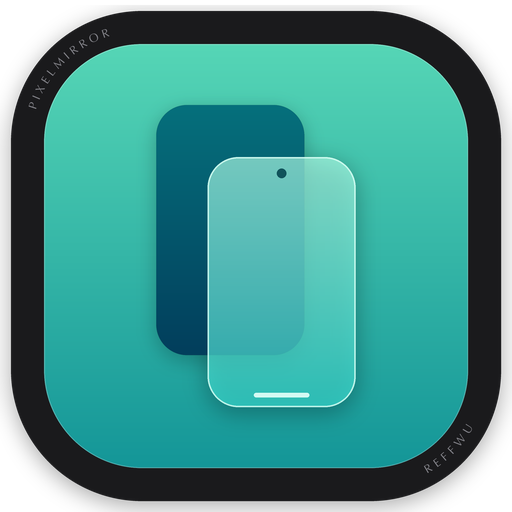
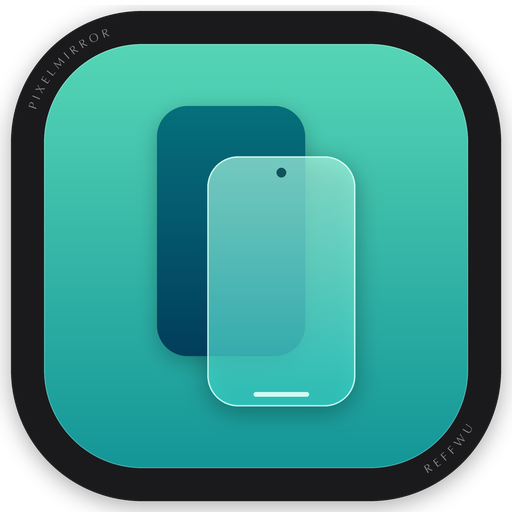
Offset the two phones equally and centre them, as in iPhone Mirroring

diff --git a/scripts/make-icon.py b/scripts/make-icon.py
@@ -80,8 +80,9 @@ def vertical_gradient(top, bottom, start, end):
 def face():
     """Two phones, one behind the other: the real one and its frosted-glass twin on the Mac."""
     canvas = vertical_gradient(BACKGROUND[0], BACKGROUND[1], INNER[1], INNER[3]).convert("RGBA")
-    back = (625, 420, 1217, 1420)
-    front = (830, 628, 1422, 1628)
+    # Same size, offset by 34% of the width both ways, together centred: as in iPhone Mirroring.
+    back = (628, 424, 1220, 1424)
+    front = (829, 625, 1421, 1625)
     radius = 123  # iPhone Mirroring: r 60 on a 288 wide phone at 1024
 
     # Soft shadows lift both phones off the background.
